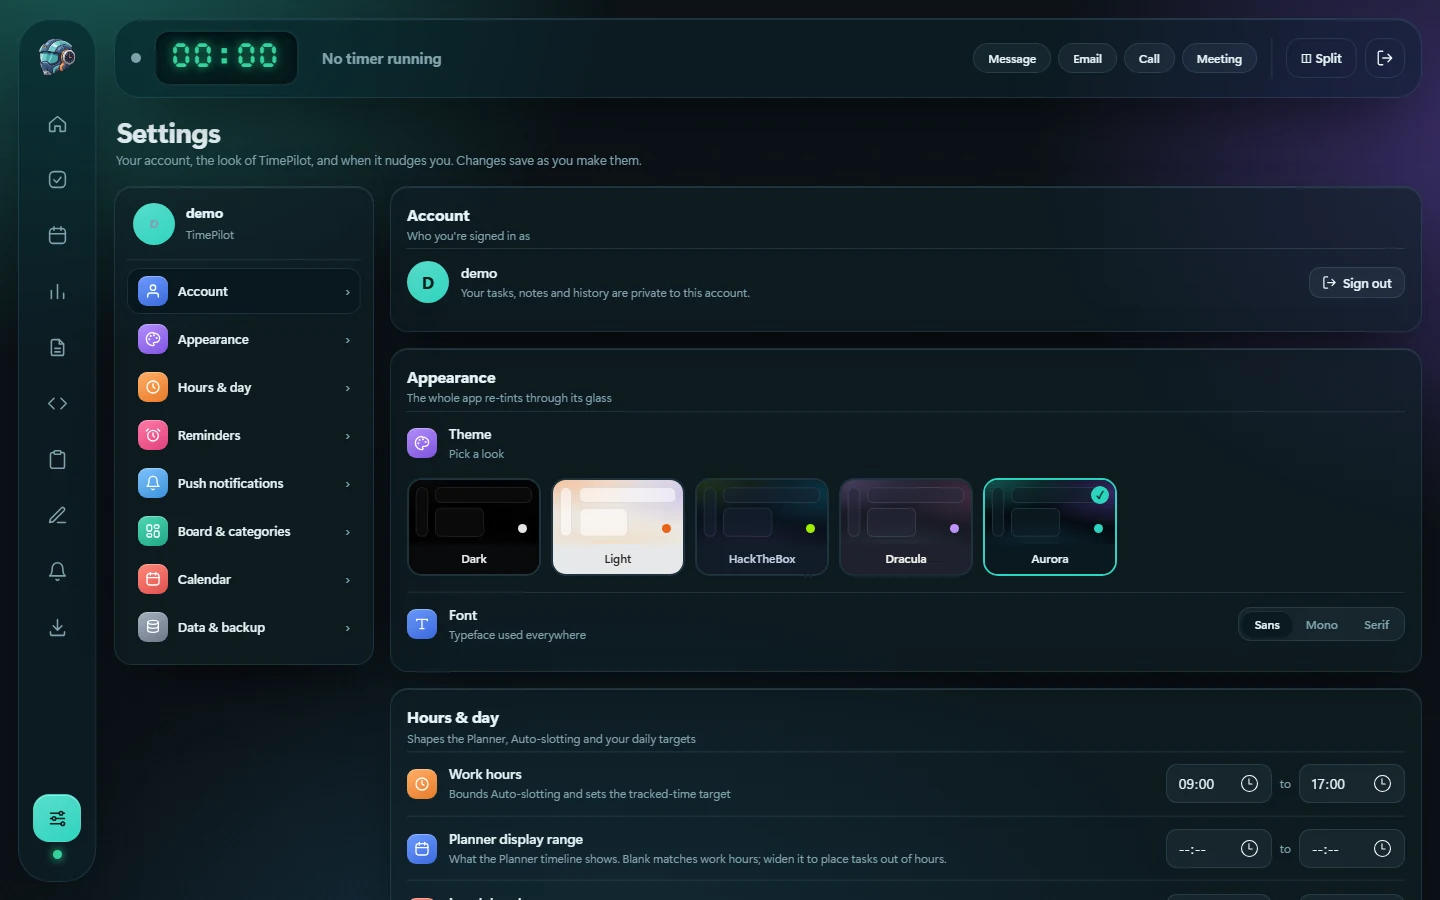
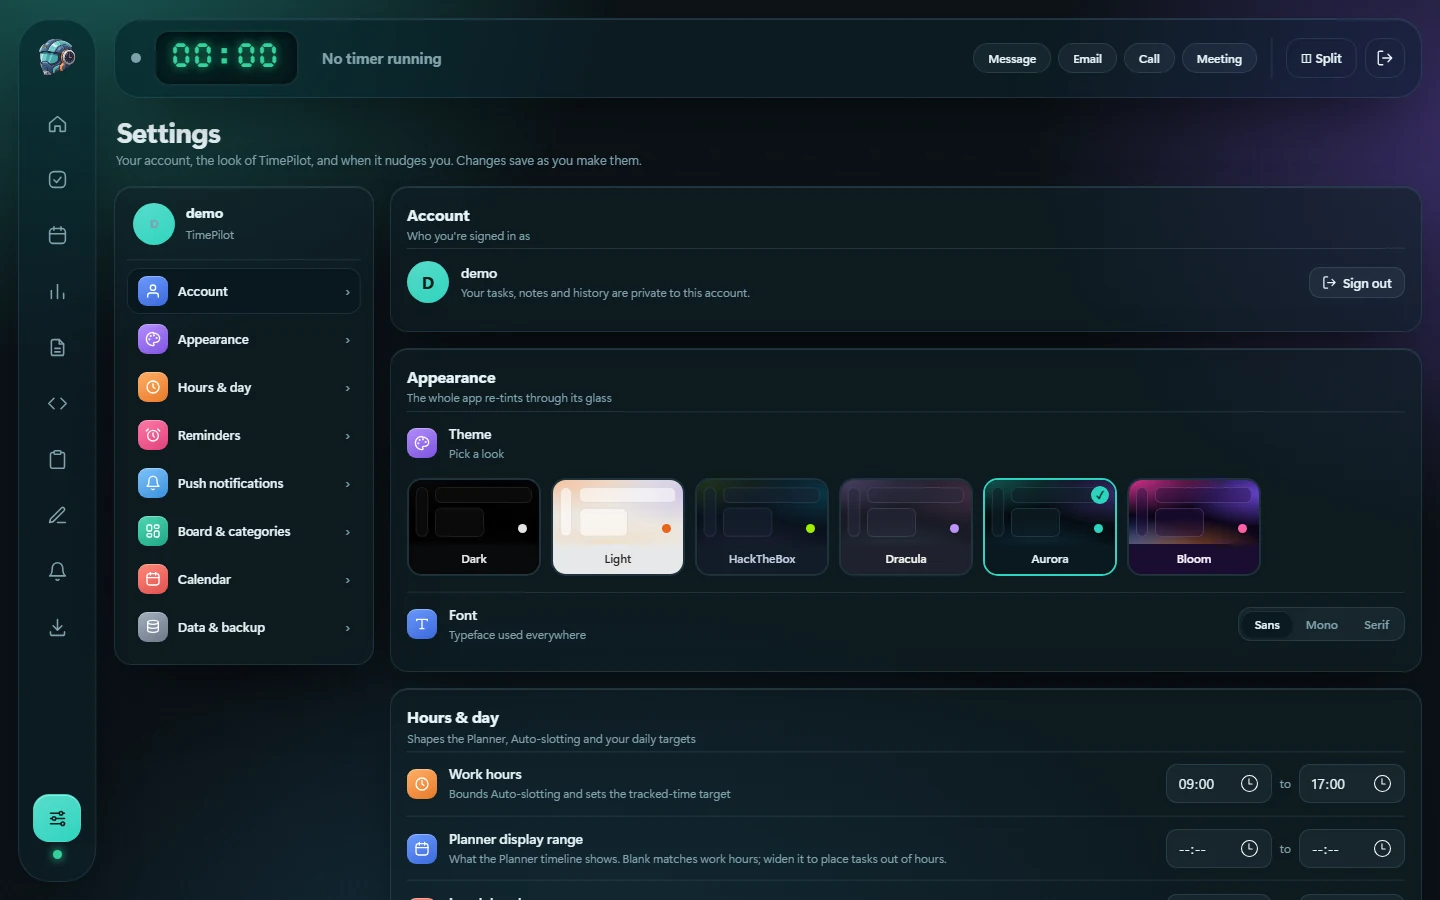
Add the Bloom theme
A vivid sixth theme: four large magenta, violet, blue and orange lights behind
deep-plum glass with a pink accent. Panels carry their own backdrop frosting so
text stays readable over the colour. Appears in the Settings theme previews;
the README gallery now shows all six themes and the Settings screenshot is
refreshed.

Changed region(s): [[0.7812, 0.5289, 0.875, 0.6533]]

diff --git a/static/index.html b/static/index.html
@@ -64,6 +64,17 @@
   --orb1:rgba(45,212,191,.36); --orb2:rgba(139,92,246,.36); --orb3:rgba(56,189,248,.22);
   --shadow:0 24px 60px -24px rgba(0,0,0,.8);
 }
+[data-theme="bloom"]{
+  /* the colourful one: magenta, violet, blue and orange light behind deep-plum glass */
+  color-scheme:dark;
+  --bg:#0b0518; --surface:rgba(38,18,66,.42); --surface-strong:rgba(26,12,50,.93);
+  --surface2:rgba(255,215,255,.075); --line:rgba(255,190,255,.17); --hi:rgba(255,220,255,.20);
+  --text:#fcf2ff; --muted:#bca5d9; --accent:#ff5fa8; --accent-text:#2c0a1f;
+  --cat-general:#7aa7ff; --cat-secops:#ff7a8a; --cat-change:#b794ff;
+  --cal:#5a4aa6; --danger:#ff6b7f; --ok:#3ee6a8; --lcd-bg:rgba(0,0,0,.40);
+  --orb1:rgba(255,60,170,.80); --orb2:rgba(125,80,255,.80); --orb3:rgba(255,140,60,.60); --orb4:rgba(40,130,255,.64);
+  --shadow:0 24px 60px -24px rgba(8,0,24,.85);
+}
 [data-font="sans"]{ --ff:"Inter","SF Pro Display","Segoe UI Variable Display","Segoe UI",system-ui,-apple-system,Roboto,sans-serif; }
 [data-font="mono"]{ --ff:ui-monospace,"Cascadia Code","SF Mono",Menlo,Consolas,monospace; }
 [data-font="serif"]{ --ff:Georgia,"Times New Roman",serif; }
@@ -89,6 +100,14 @@ body::before{content:"";position:fixed;inset:0;z-index:-1;pointer-events:none;
     radial-gradient(60vmax 46vmax at 6% -6%, var(--orb1), transparent 62%),
     radial-gradient(52vmax 44vmax at 104% 16%, var(--orb2), transparent 62%),
     radial-gradient(70vmax 46vmax at 42% 112%, var(--orb3), transparent 62%),
+    var(--bg)}
+/* Bloom paints four larger, brighter lights than the other themes */
+body[data-theme="bloom"]::before{background:
+    url("/static/grain.svg"),
+    radial-gradient(72vmax 56vmax at 4% 0%, var(--orb1), transparent 66%),
+    radial-gradient(66vmax 58vmax at 100% 10%, var(--orb2), transparent 66%),
+    radial-gradient(72vmax 52vmax at 72% 108%, var(--orb3), transparent 66%),
+    radial-gradient(64vmax 52vmax at 0% 100%, var(--orb4), transparent 66%),
     var(--bg)}
 ::selection{background:color-mix(in srgb,var(--accent) 45%,transparent)}
 ::-webkit-scrollbar{width:10px;height:10px}
@@ -404,6 +423,9 @@ input.scrRename{font-size:12px;padding:1px 5px;width:120px;min-width:0}
 .notice{background:var(--surface2);border:1px solid var(--line);border-radius:14px;padding:10px 14px;font-size:13px;color:var(--muted);margin-bottom:12px}
 
 [data-theme="aurora"] option{background:#0f2028;color:#e8f4f6}
+[data-theme="bloom"] option{background:#1d0f36;color:#fcf2ff}
+/* the colour is strong enough that panels need their own frosting to stay readable */
+body[data-theme="bloom"] :is(.panel,.col,.stat,.filterBar,#timeline){-webkit-backdrop-filter:blur(18px) saturate(140%);backdrop-filter:blur(18px) saturate(140%)}
 
 /* ---- page headers, stat tiles, segmented controls (Dashboard / Tasks / Insights / Settings) ---- */
 .pageHead{display:flex;align-items:flex-end;gap:12px;flex-wrap:wrap;margin:2px 2px 16px}
@@ -632,7 +654,8 @@ main.split #dashGrid,main.split #insGrid{grid-template-columns:minmax(0,1fr)}
 .themeTile .pvbox{display:block;color:var(--text)}
 .themeTile .pv{display:block;position:relative;height:64px;
   background:radial-gradient(120% 90% at 0% 0%,var(--orb1),transparent 60%),radial-gradient(100% 90% at 100% 20%,var(--orb2),transparent 60%),
-    radial-gradient(120% 100% at 40% 120%,var(--orb3),transparent 60%),var(--bg)}
+    radial-gradient(120% 100% at 40% 120%,var(--orb3),transparent 60%),
+    radial-gradient(90% 90% at 0% 110%,var(--orb4,transparent),transparent 60%),var(--bg)}
 .themeTile .pv i{position:absolute;background:var(--surface);border:1px solid var(--line)}
 .themeTile .pv .r{left:7px;top:7px;bottom:7px;width:12px;border-radius:7px}
 .themeTile .pv .c1{left:26px;top:7px;right:7px;height:16px;border-radius:6px}
@@ -926,7 +949,7 @@ let S = null;               // server state
 let dirty = false, saveT = null;
 const $ = s => document.querySelector(s);
 const uid = () => Math.random().toString(36).slice(2, 10);
-const THEMES = [["dark","Dark"],["light","Light"],["htb","HackTheBox"],["dracula","Dracula"],["aurora","Aurora"]];
+const THEMES = [["dark","Dark"],["light","Light"],["htb","HackTheBox"],["dracula","Dracula"],["aurora","Aurora"],["bloom","Bloom"]];
 const FONTS = [["sans","Sans"],["mono","Mono"],["serif","Serif"]];
 const pad = n => String(n).padStart(2,"0");
 // The local calendar day as YYYY-MM-DD. (toISOString() is UTC, which puts the date a day out for hours each day.)

diff --git a/README.md b/README.md
@@ -29,8 +29,8 @@ More in [Screenshots](#screenshots).
 The two share the same backend and database schema, so you can switch
 between them at any time without migrating or exporting anything - your
 tasks, notes and settings are the same either way. (One small catch: 2.x has
-no Aurora theme, so an account set to it falls back to Dark when opened in
-2.x.)
+no Aurora or Bloom theme, so an account set to one falls back to Dark when
+opened in 2.x.)
 
 **Stay on the classic look:** pin the image in `docker-compose.yml`
 (`image: ghcr.io/shanemc92/timepilot:2`) then `docker compose pull && docker
@@ -87,8 +87,8 @@ to plain translucent surfaces with no blur; everything still works.
 - **Settings tab** - Account, Appearance (with theme previews), Hours & day,
   Reminders, Push notifications, Board & categories, Calendar and Data &
   backup, each saved as you change it.
-- **Themes** - Aurora (default), a true-black Dark, light, HTB and Dracula (Settings ->
-  Appearance), all built on the glass look. On phones the icon rail becomes a
+- **Themes** - Aurora (default), the vivid Bloom, a true-black Dark, light, HTB and
+  Dracula (Settings -> Appearance), all built on the glass look. On phones the icon rail becomes a
   bottom dock.
 - **Scratchpad** - a plain-text scratch tab for quick copy/paste, with up
   to 8 named pads open at once (double-click a pad tab to rename it): line
@@ -171,13 +171,15 @@ Any tab pinned beside any other - here Tasks next to the Planner.
 ### Themes
 
 <p>
-<img src="docs/screenshots/theme-light.webp" width="49%" alt="Light theme">
-<img src="docs/screenshots/theme-dark.webp" width="49%" alt="Dark theme">
-<img src="docs/screenshots/theme-hackthebox.webp" width="49%" alt="HackTheBox theme">
-<img src="docs/screenshots/theme-dracula.webp" width="49%" alt="Dracula theme">
+<img src="docs/screenshots/theme-aurora.webp" width="32%" alt="Aurora theme">
+<img src="docs/screenshots/theme-bloom.webp" width="32%" alt="Bloom theme">
+<img src="docs/screenshots/theme-dark.webp" width="32%" alt="Dark theme">
+<img src="docs/screenshots/theme-light.webp" width="32%" alt="Light theme">
+<img src="docs/screenshots/theme-hackthebox.webp" width="32%" alt="HackTheBox theme">
+<img src="docs/screenshots/theme-dracula.webp" width="32%" alt="Dracula theme">
 </p>
 
-*Light, true-black Dark, HackTheBox and Dracula (Aurora, the default, is in the screenshots above).*
+*Aurora (the default), Bloom, true-black Dark, Light, HackTheBox and Dracula.*
 
 ### On a phone
 

diff --git a/CHANGELOG.md b/CHANGELOG.md
@@ -574,3 +574,12 @@ Includes everything in 2.7.0.
   split view and a phone layout - as WebP files in `docs/screenshots/`. The old
   demo animation (`docs/demo.webp`) and the two 3.0-era screenshots are removed
   until the animation is re-recorded.
+
+## Bloom theme
+
+- **FEATURE:** A sixth theme, **Bloom**: four large magenta, violet, blue and
+  orange lights behind deep-plum glass, with a pink accent. Its panels carry
+  their own frosting so text stays readable over the colour. Pick it in
+  Settings -> Appearance (the theme previews show it); as with Aurora, 2.x
+  falls back to Dark for an account set to it. The README gallery now shows all
+  six themes.
